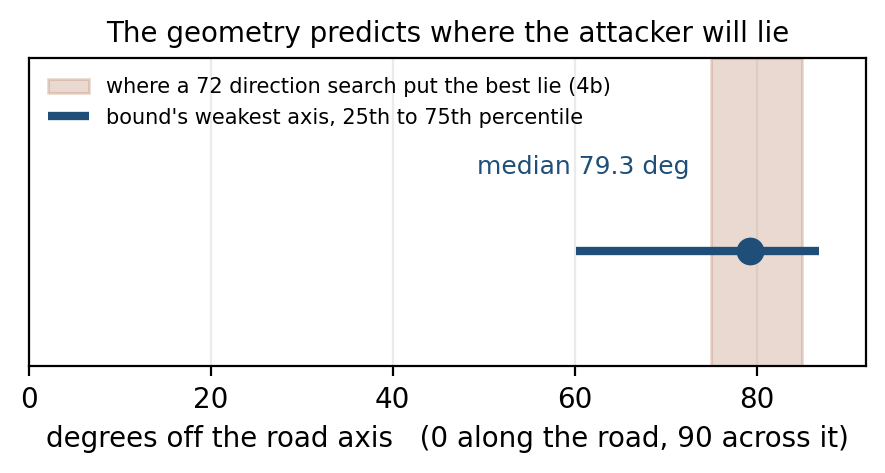
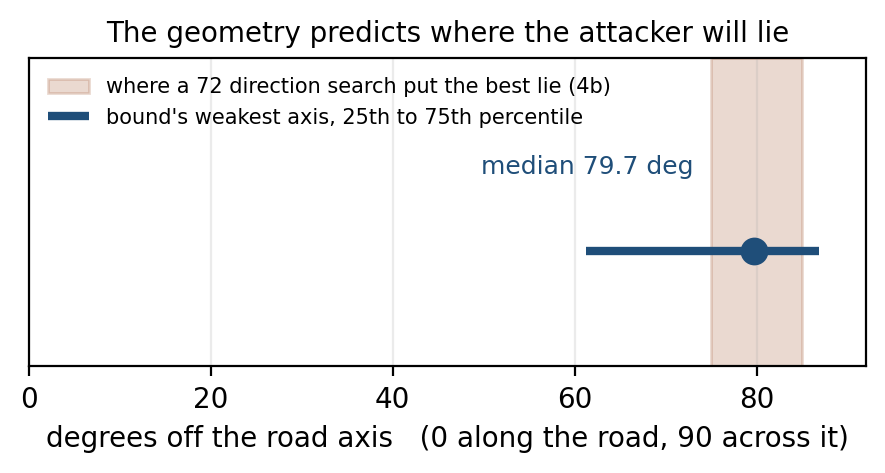
Read every figure annotation from its log and redraw on release 1.1.0
The placement figure carried a fixed y range, a star drawn at 40 m whatever the
sweep said, and a typed "19.1 percent against 19.6 predicted"; on the 1.1.0
logs the range clipped the curve's floor. The star now marks the sweep's
minimum, the range follows the data, and the annotation computes the measured
reduction from the offset receiver campaign against the same three seeds on the
centreline, 21.8 percent, and the predicted one from the sweep, 20.2 percent.
The direction figure's band, where the best lies fell, was typed as 75 to 85
degrees; it is now read from the best response log, which still gives 75 to 85.
The calibration and geometry figures are redrawn from their current logs.

Changed region(s): [[0.5186, 0.3256, 0.7932, 0.3848], [0.8237, 0.5032, 0.8847, 0.5624], [0.6407, 0.5032, 0.6712, 0.5624]]

diff --git a/analysis/make_figures.py b/analysis/make_figures.py
@@ -64,15 +64,24 @@ def fig_placement():
                 f"anisotropy {aniso[0]:.2f}",
                 xy=(off[0], across[0]), xytext=(4, across[0] + 0.7),
                 fontsize=8, color="#555555")
-    ax.plot([40], [across[best]], "*", ms=16, color="#a0522d", zorder=5)
-    # Sits under the curve's right arm, which is the only clear region: at this
-    # y-limit the space above the optimum is crossed by the curve itself and by
-    # the 80 m sample, and the text ran straight through that marker before.
+    # The campaign generated with the units at 40 m is the test of the sweep.
+    # Its reduction is measured against the same three seeds on the centreline,
+    # both read from their logs, so the annotation cannot outlive a rerun.
+    def across_of(log):
+        return float(grab(log, r"^\s+across the road\s+([\d.]+) m",
+                          f"the across-road bound in {log}")[0])
+    base = across_of("campaign_gnss/logs/geometry_bound_3seed.log")
+    moved = across_of("campaign_offset_rsu/logs/geometry_bound.log")
+    measured = 100.0 * (base - moved) / base
+    i40 = off.index(40.0)
+    predicted = 100.0 * (across[0] - across[i40]) / across[0]
+    ax.plot([off[best]], [across[best]], "*", ms=16, color="#a0522d", zorder=5)
+    top = max(across)
     ax.annotate(f"optimum at {off[best]:.0f} m: {across[best]:.1f} m, "
                 f"anisotropy {aniso[best]:.2f}\n"
-                f"generated at this offset and measured,\n"
-                f"19.1 percent against 19.6 predicted",
-                xy=(40, across[best]), xytext=(202, 29.2),
+                f"a campaign generated at 40 m measures\n"
+                f"{measured:.1f} percent against {predicted:.1f} predicted",
+                xy=(off[best], across[best]), xytext=(max(off), top + 1.2),
                 fontsize=8, color="#a0522d", va="bottom", ha="right",
                 arrowprops=dict(arrowstyle="->", lw=0.8, color="#a0522d",
                                 shrinkA=2, shrinkB=6))
@@ -80,7 +89,7 @@ def fig_placement():
     ax.set_ylabel("Cramer-Rao bound,\nacross the road (m)")
     ax.set_title("Geometry improves with offset, information falls with distance",
                  fontsize=10)
-    ax.set_ylim(28.9, 42.2)
+    ax.set_ylim(min(across) - 1.5, top + 5.5)
     ax.grid(alpha=0.25)
     save(fig, "placement")
 
@@ -98,8 +107,14 @@ def fig_direction():
                   "the ellipse orientation percentiles")
     q25, q50, q75 = [float(a) for a in angles[:3]]
 
+    # The band is where the unconstrained attacker's best lies fell across the
+    # displacements searched, read from the best response log rather than typed.
+    rows = grab("drift/logs/br_gnss_free.log",
+                r"^\s+\d+ m(?:\s+[-\d.]+){7}\s+([\d.]+)\s+[-\d.]+$",
+                "the off-axis angle of the best lies")
+    lo, hi = min(float(r) for r in rows), max(float(r) for r in rows)
     fig, ax = plt.subplots(figsize=(5.4, 2.0))
-    ax.axvspan(75, 85, color="#a0522d", alpha=0.22,
+    ax.axvspan(lo, hi, color="#a0522d", alpha=0.22,
                label="where a 72 direction search put the best lie (4b)")
     ax.plot([q25, q75], [1, 1], color="#1f4e79", lw=3,
             solid_capstyle="butt",
